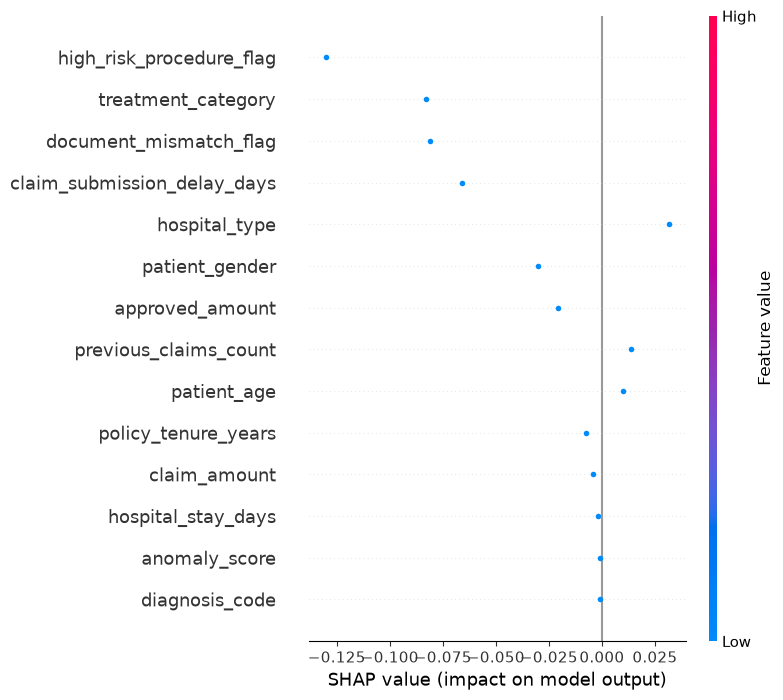
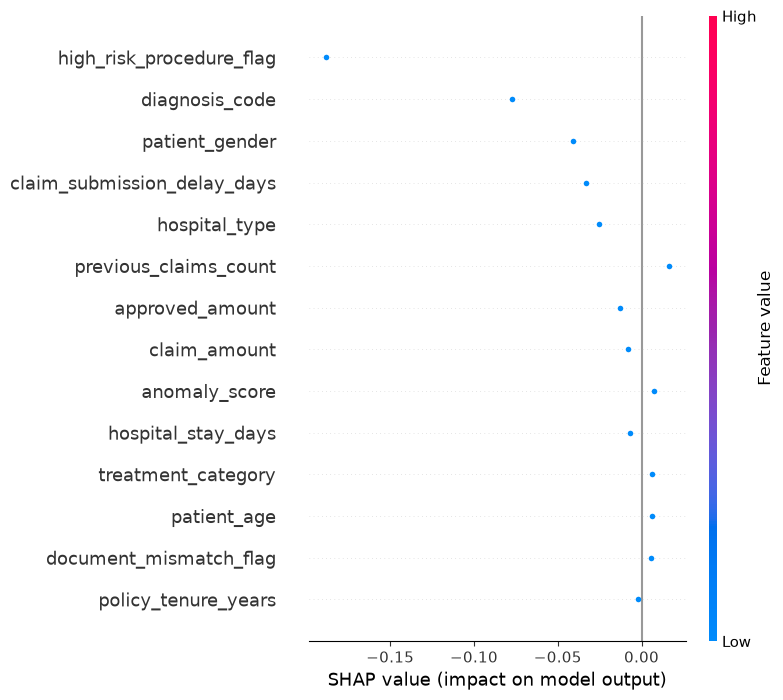
Completed Phase 10: Flask enhancements and PDF report generation

diff --git a/static/style.css b/static/style.css
@@ -52,3 +52,46 @@ button:hover {
     margin:20px auto;
     border-radius:8px;
 }
+
+.result-card{
+    background:white;
+    padding:20px;
+    border-radius:10px;
+    margin-top:20px;
+    box-shadow:0 0 10px lightgray;
+}
+
+.result-table{
+    width:100%;
+    border-collapse:collapse;
+    margin-top:15px;
+}
+
+.result-table th{
+    background:#3498db;
+    color:white;
+    padding:10px;
+}
+
+.result-table td{
+    padding:10px;
+    text-align:center;
+    border:1px solid #ddd;
+}
+
+.section-title{
+    margin-top:25px;
+    color:#2c3e50;
+}
+
+.error-message{
+    color:#d63031;
+    font-size:22px;
+    font-weight:bold;
+}
+
+.success-message{
+    color:#27ae60;
+    font-size:22px;
+    font-weight:bold;
+}

diff --git a/templates/result.html b/templates/result.html
@@ -14,19 +14,29 @@
 
         <h2>Prediction Result</h2>
 
-        <h3 style="color: {{ color }};">{{ result }}</h3>
+        {% if color=="green" %}
+        <h3 class="success-message">{{ result }}</h3>
+        {% else %}
+        <h3 class="error-message">{{ result }}</h3>
+        {% endif %}
+
+        {% if prediction_success %}
 
         <p><strong>Confidence:</strong> {{ confidence }}%</p>
 
         <p><strong>Fraud Probability:</strong> {{ fraud_probability }}%</p>
 
-        <p><strong>Model Used:</strong> {{ model_name }}</p>    
+        <p><strong>Model Used:</strong> {{ model_name }}</p>
+
+        {% endif %}
          
         {% if shap_explanations %}
 
-        <h3>Top Factors Influencing Prediction</h3>
+        <h3 class="section-title">
+        Top Factors Influencing Prediction
+        </h3>
 
-        <table border="1" cellpadding="8" cellspacing="0" style="margin:auto;">
+        <table class="result-table">
             <tr>
                
                 <th>Feature</th>
@@ -55,27 +65,39 @@
 
         {% endif %}
     
-       {% if show_shap %}
+      {% if prediction_success and show_shap %}
 
-       <h3>SHAP Summary Plot</h3>
+       <h3 class="section-title">
+       SHAP Summary Plot
+       </h3>
 
        <img src="{{ url_for('static', filename='shap_summary.png') }}"
             class="shap-image">
 
        <br><br>
 
-       <h3>SHAP Bar Plot</h3>
+       <h3 class="section-title">
+       SHAP Bar Plot
+       </h3>
 
        <img src="{{ url_for('static', filename='shap_bar.png') }}"
             class="shap-image">
 
-        {% endif %}
+       {% endif %}
 
-        <a href="/">
+       <a href="{{ url_for('static', filename='prediction_report.pdf') }}" download>
+            <button type="button">
+                📄 Download Report
+            </button>
+       </a>
+
+       <br><br>
+
+       <a href="/">
             <button type="button">
                 Predict Another Claim
             </button>
-        </a>
+       </a>
 
     </form>
 

diff --git a/app.py b/app.py
@@ -6,7 +6,7 @@ import matplotlib
 matplotlib.use("Agg")
 import matplotlib.pyplot as plt
 from utils.model_loader import load_model, load_label_encoders
-
+from pdf_report import generate_pdf
 
 app = Flask(__name__)
 
@@ -64,6 +64,116 @@ def predict():
 
     claim_df = pd.DataFrame(claim_data)
 
+    # Input Validation
+   
+    if claim_df["patient_age"][0] < 0 or claim_df["patient_age"][0] > 120:
+        return render_template(
+            "result.html",
+            result="❌ Invalid Patient Age.",
+            color="orange",
+            confidence="--",
+            fraud_probability="--",
+            model_name="Random Forest Classifier",
+            show_shap=False,
+            prediction_success=False
+        )
+
+    if claim_df["claim_amount"][0] <= 0:
+        return render_template(
+            "result.html",
+            result="❌ Claim Amount must be greater than 0.",
+            color="orange",
+            confidence="--",
+            fraud_probability="--",
+            model_name="Random Forest Classifier",
+            show_shap=False,
+            prediction_success=False
+        )
+
+    if claim_df["approved_amount"][0] < 0:
+        return render_template(
+            "result.html",
+            result="❌ Approved Amount cannot be negative.",
+            color="orange",
+            confidence="--",
+            fraud_probability="--",
+            model_name="Random Forest Classifier",
+            show_shap=False,
+            prediction_success=False
+        )
+
+    if claim_df["approved_amount"][0] > claim_df["claim_amount"][0]:
+        return render_template(
+            "result.html",
+            result="❌ Approved Amount cannot exceed Claim Amount.",
+            color="orange",
+            confidence="--",
+            fraud_probability="--",
+            model_name="Random Forest Classifier",
+            show_shap=False,
+            prediction_success=False
+        )
+
+    if claim_df["hospital_stay_days"][0] < 0:
+        return render_template(
+            "result.html",
+            result="❌ Hospital Stay Days cannot be negative.",
+            color="orange",
+            confidence="--",
+            fraud_probability="--",
+            model_name="Random Forest Classifier",
+            show_shap=False,
+            prediction_success=False
+        )
+
+    if claim_df["previous_claims_count"][0] < 0:
+        return render_template(
+            "result.html",
+            result="❌ Previous Claims Count cannot be negative.",
+            color="orange",
+            confidence="--",
+            fraud_probability="--",
+            model_name="Random Forest Classifier",
+            show_shap=False,
+            prediction_success=False
+        )
+
+    if claim_df["policy_tenure_years"][0] < 0:
+        return render_template(
+            "result.html",
+            result="❌ Policy Tenure cannot be negative.",
+            color="orange",
+            confidence="--",
+            fraud_probability="--",
+            model_name="Random Forest Classifier",
+            show_shap=False,
+            prediction_success=False
+        )
+
+    if claim_df["claim_submission_delay_days"][0] < 0:
+        return render_template(
+            "result.html",
+            result="❌ Claim Submission Delay cannot be negative.",
+            color="orange",
+            confidence="--",
+            fraud_probability="--",
+            model_name="Random Forest Classifier",
+            show_shap=False,
+            prediction_success=False
+        )
+
+    if claim_df["anomaly_score"][0] < 0 or claim_df["anomaly_score"][0] > 1:
+        return render_template(
+            "result.html",
+            result="❌ Anomaly Score must be between 0 and 1.",
+            color="orange",
+            confidence="--",
+            fraud_probability="--",
+            model_name="Random Forest Classifier",
+            show_shap=False,
+            prediction_success=False
+        )
+
     # Encode categorical columns safely
     for column, encoder in label_encoders.items():
 
@@ -87,7 +197,8 @@ def predict():
                   fraud_probability="--",
                   model_name="Random Forest Classifier",
                   shap_explanations=None,
-                  show_shap=False
+                  show_shap=False,
+                  prediction_success=False
              )
 
     # Arrange feature order
@@ -188,6 +299,16 @@ def predict():
     print(f"Confidence: {confidence}%")
     print(f"Fraud Probability: {fraud_probability}%")
 
+    # Generate PDF Report
+    generate_pdf(
+        "static/prediction_report.pdf",
+        result,
+        confidence,
+        fraud_probability,
+        model_name,
+        shap_explanations
+    )
+
     return render_template(
         "result.html",
         result=result,
@@ -196,7 +317,8 @@ def predict():
         fraud_probability=fraud_probability,
         model_name=model_name,
         shap_explanations=shap_explanations,
-        show_shap=True
+        show_shap=True,
+        prediction_success=True
     )
 
 

diff --git a/pdf_report.py b/pdf_report.py
@@ -1,0 +1,60 @@
+from reportlab.platypus import SimpleDocTemplate, Paragraph
+from reportlab.lib.styles import getSampleStyleSheet
+
+
+def generate_pdf(
+    filename,
+    result,
+    confidence,
+    fraud_probability,
+    model_name,
+    shap_explanations
+):
+    styles = getSampleStyleSheet()
+
+    pdf = SimpleDocTemplate(filename)
+
+    elements = []
+
+    # Remove emojis from prediction
+    clean_result = (
+        result.replace("✅ ", "")
+              .replace("🚨 ", "")
+    )
+
+    elements.append(
+        Paragraph("<b>Healthcare Fraud Detection Report</b>", styles["Title"])
+    )
+
+    elements.append(
+        Paragraph(f"<b>Prediction:</b> {clean_result}", styles["Normal"])
+    )
+
+    elements.append(
+        Paragraph(f"<b>Confidence:</b> {confidence}%", styles["Normal"])
+    )
+
+    elements.append(
+        Paragraph(f"<b>Fraud Probability:</b> {fraud_probability}%", styles["Normal"])
+    )
+
+    elements.append(
+        Paragraph(f"<b>Model:</b> {model_name}", styles["Normal"])
+    )
+
+    elements.append(
+        Paragraph("<br/><b>Top Factors Influencing Prediction</b>", styles["Heading2"])
+    )
+
+    for feature, impact, explanation in shap_explanations:
+
+        feature_name = feature.replace("_", " ").title()
+
+        elements.append(
+            Paragraph(
+                f"<b>{feature_name}</b>: {impact} ({explanation})",
+                styles["Normal"]
+            )
+        )
+
+    pdf.build(elements)